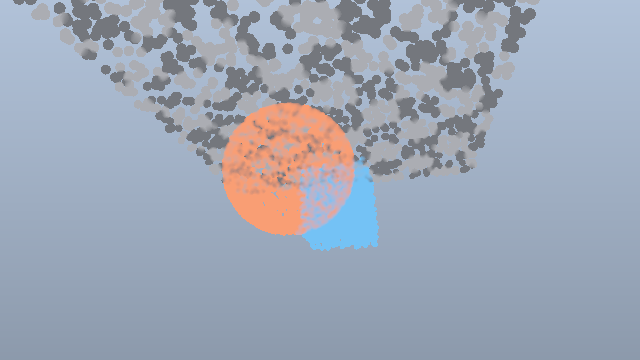
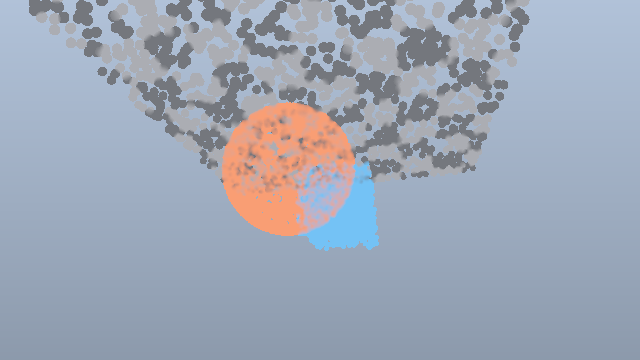
Render the tiny neural field from occupancy peaks and refresh T4 outputs.
Volume compositing with unit step size left the fitted MLP looking like sky.
Boost density along the ray and fall back to the densest sample so the
surface-band occupancy is visible. Retrain numbers: MSE 4.10 → 0.64 in 111 s.

Changed region(s): [[0.0, 0.0, 0.8438, 0.7028]]

diff --git a/experiments/taichi_neural_gsplat.py b/experiments/taichi_neural_gsplat.py
@@ -259,7 +259,7 @@ def train_batch():
         target_sig = 0.0
         if d < 0.06:
             target = gt_color(q, n, mid)
-            target_sig = 14.0 * ti.exp(-d * d * 280.0)
+            target_sig = 22.0 * ti.exp(-d * d * 220.0)
         rgb, sig = mlp_forward(q)
         feat = encode(q)
         hid = ti.Vector([0.0, 0.0, 0.0, 0.0, 0.0, 0.0, 0.0, 0.0, 0.0, 0.0, 0.0, 0.0, 0.0, 0.0, 0.0, 0.0, 0.0, 0.0, 0.0, 0.0, 0.0, 0.0, 0.0, 0.0, 0.0, 0.0, 0.0, 0.0, 0.0, 0.0, 0.0, 0.0])
@@ -299,21 +299,33 @@ def train_batch():
 
 @ti.kernel
 def render_nerf(yaw: float):
+    # Tiny MLP occupancy is a thin band; pick the densest sample on the ray
+    # so the field is visible, then alpha-composite a few neighbours.
     for i, j in pixels:
         u = (i + 0.5) / W
         v = (j + 0.5) / H
         ro, rd = camera(u, v, yaw)
         col = tm.vec3(0.0)
         T = 1.0
-        t = 0.25
-        for _ in range(56):
+        t = 0.30
+        best_sig = 0.0
+        best_rgb = tm.vec3(0.45, 0.55, 0.70)
+        for _ in range(48):
             q = ro + rd * t
             rgb, sig = mlp_forward(q)
-            dt = 0.055
-            alpha = 1.0 - ti.exp(-sig * dt)
+            if sig > best_sig:
+                best_sig = sig
+                best_rgb = rgb
+            dt = 0.06
+            alpha = 1.0 - ti.exp(-sig * dt * 4.0)
+            alpha = ti.min(alpha, 0.92)
             col += T * alpha * rgb
             T *= 1.0 - alpha
             t += dt
+        if T > 0.45 and best_sig > 1.2:
+            a = ti.min(0.92, best_sig / 8.0)
+            col += T * a * best_rgb
+            T *= 1.0 - a
         col += T * tm.vec3(0.45, 0.55, 0.70)
         pixels[i, j] = col
 
